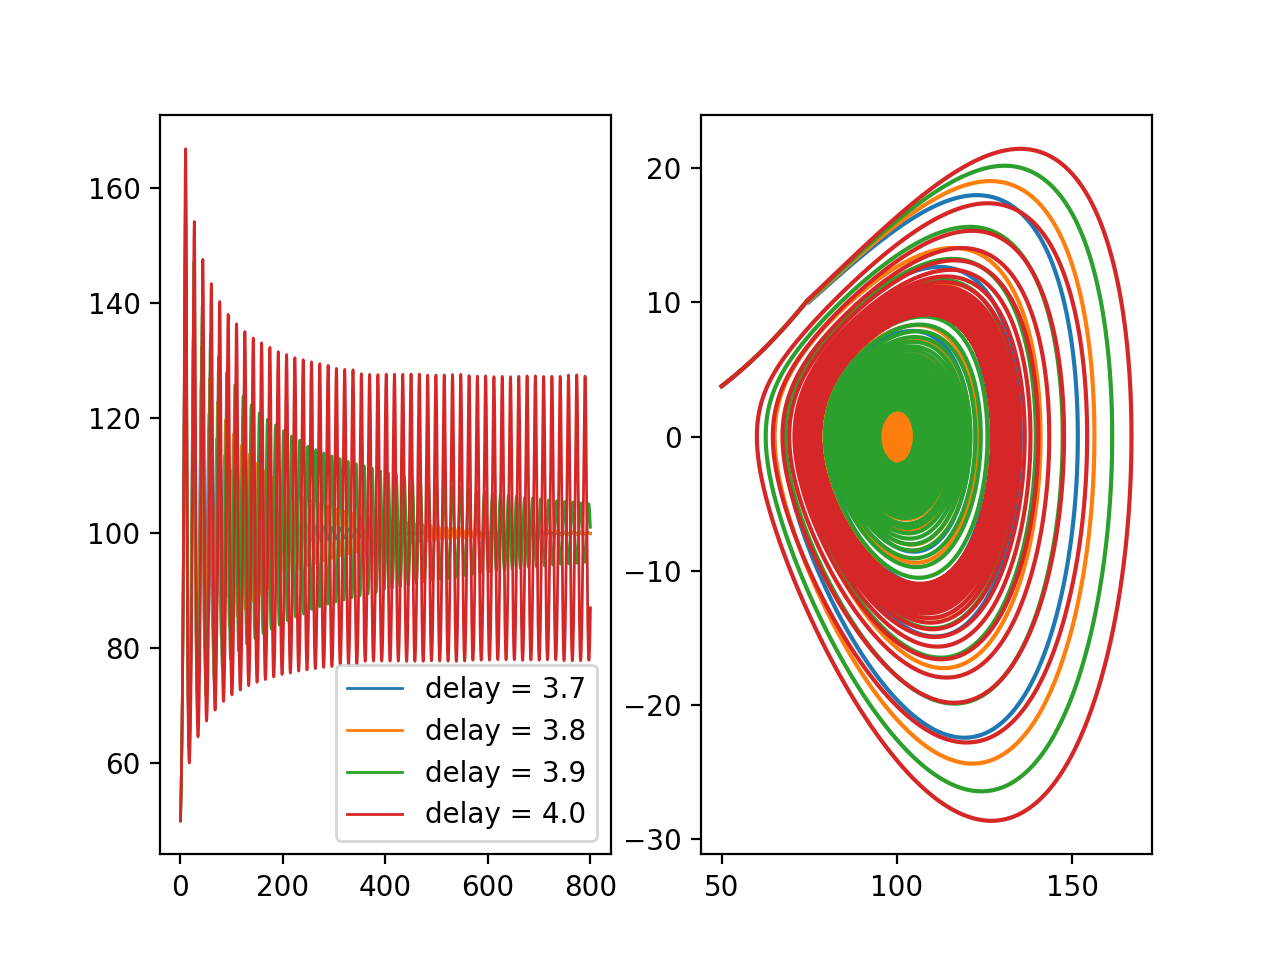
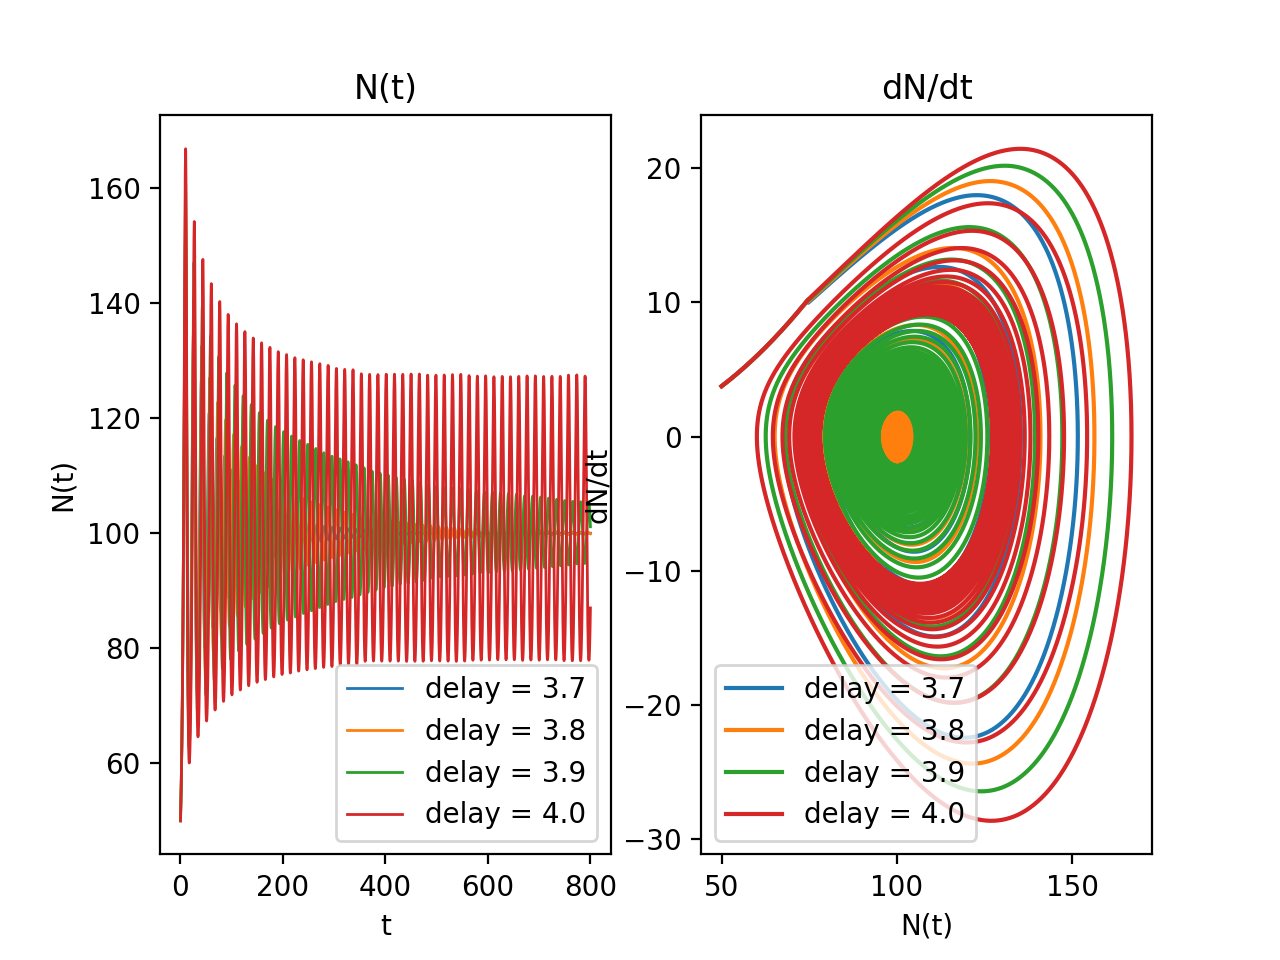
Hej

diff --git a/main.py b/main.py
@@ -23,8 +23,8 @@ if __name__ == '__main__':
     K=100
     N0=50
 
-    T = [0.1*_ for _ in range(10, 20)]
-    tmax = 50
+    T = [0.1*_ for _ in range(37, 41)]
+    tmax = 800
     ts = np.linspace(0, tmax, 100*tmax)
     Ns = []
 
@@ -37,9 +37,14 @@ if __name__ == '__main__':
 
     for i, sol in enumerate(Ns):
         plt.plot(ts, sol, linewidth=1, label=f'delay = {round(T[i],1)}')
+        '''
         if detect_oscillation(Ns[i])==True:
             Tcritical = T[i]
             break
+        '''
+    plt.title('N(t)')
+    plt.xlabel('t')
+    plt.ylabel('N(t)')
     plt.legend(loc="lower right")
     '''
     for i,sol in enumerate(Ns):
@@ -64,6 +69,9 @@ if __name__ == '__main__':
             break
         '''
         plt.plot(sol, Ndot[i,:], label=f'delay = {round(T[i],1)}')
+    plt.title('dN/dt')
+    plt.xlabel('N(t)')
+    plt.ylabel('dN/dt')
     #print(Tcritical)
-    #plt.legend(loc="lower right")
+    plt.legend(loc="lower left")
     plt.show()
